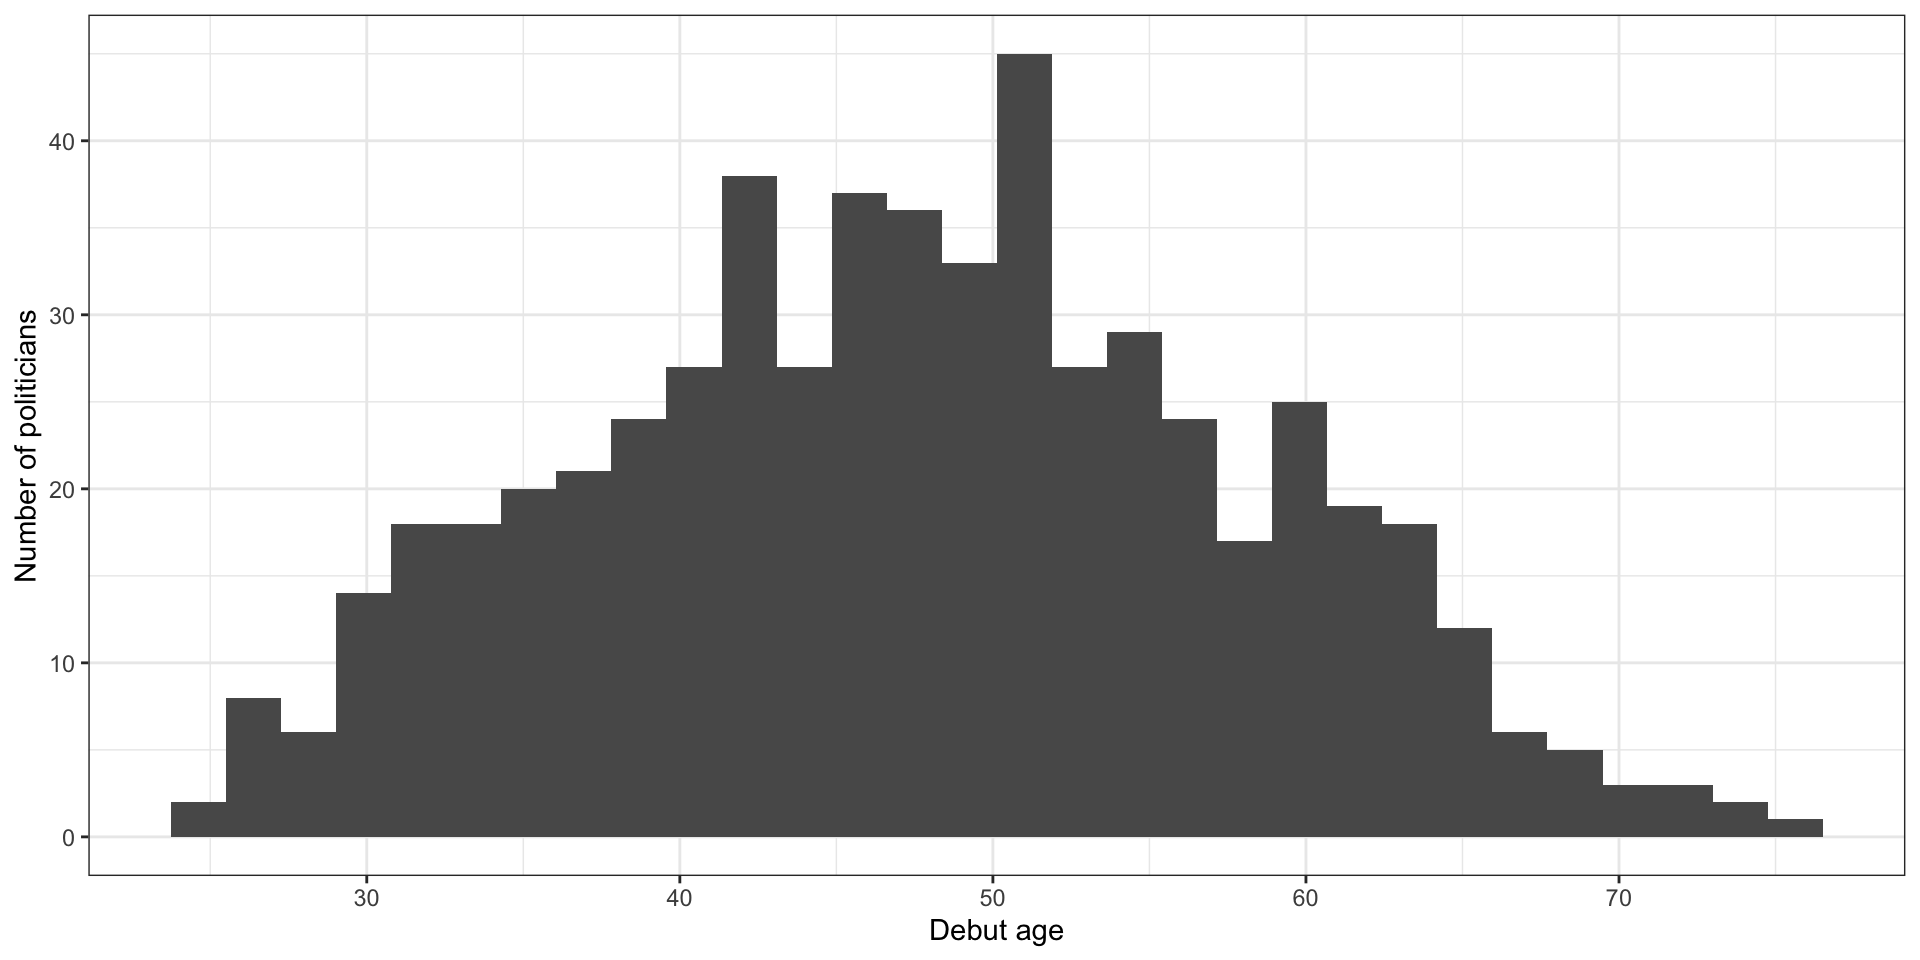
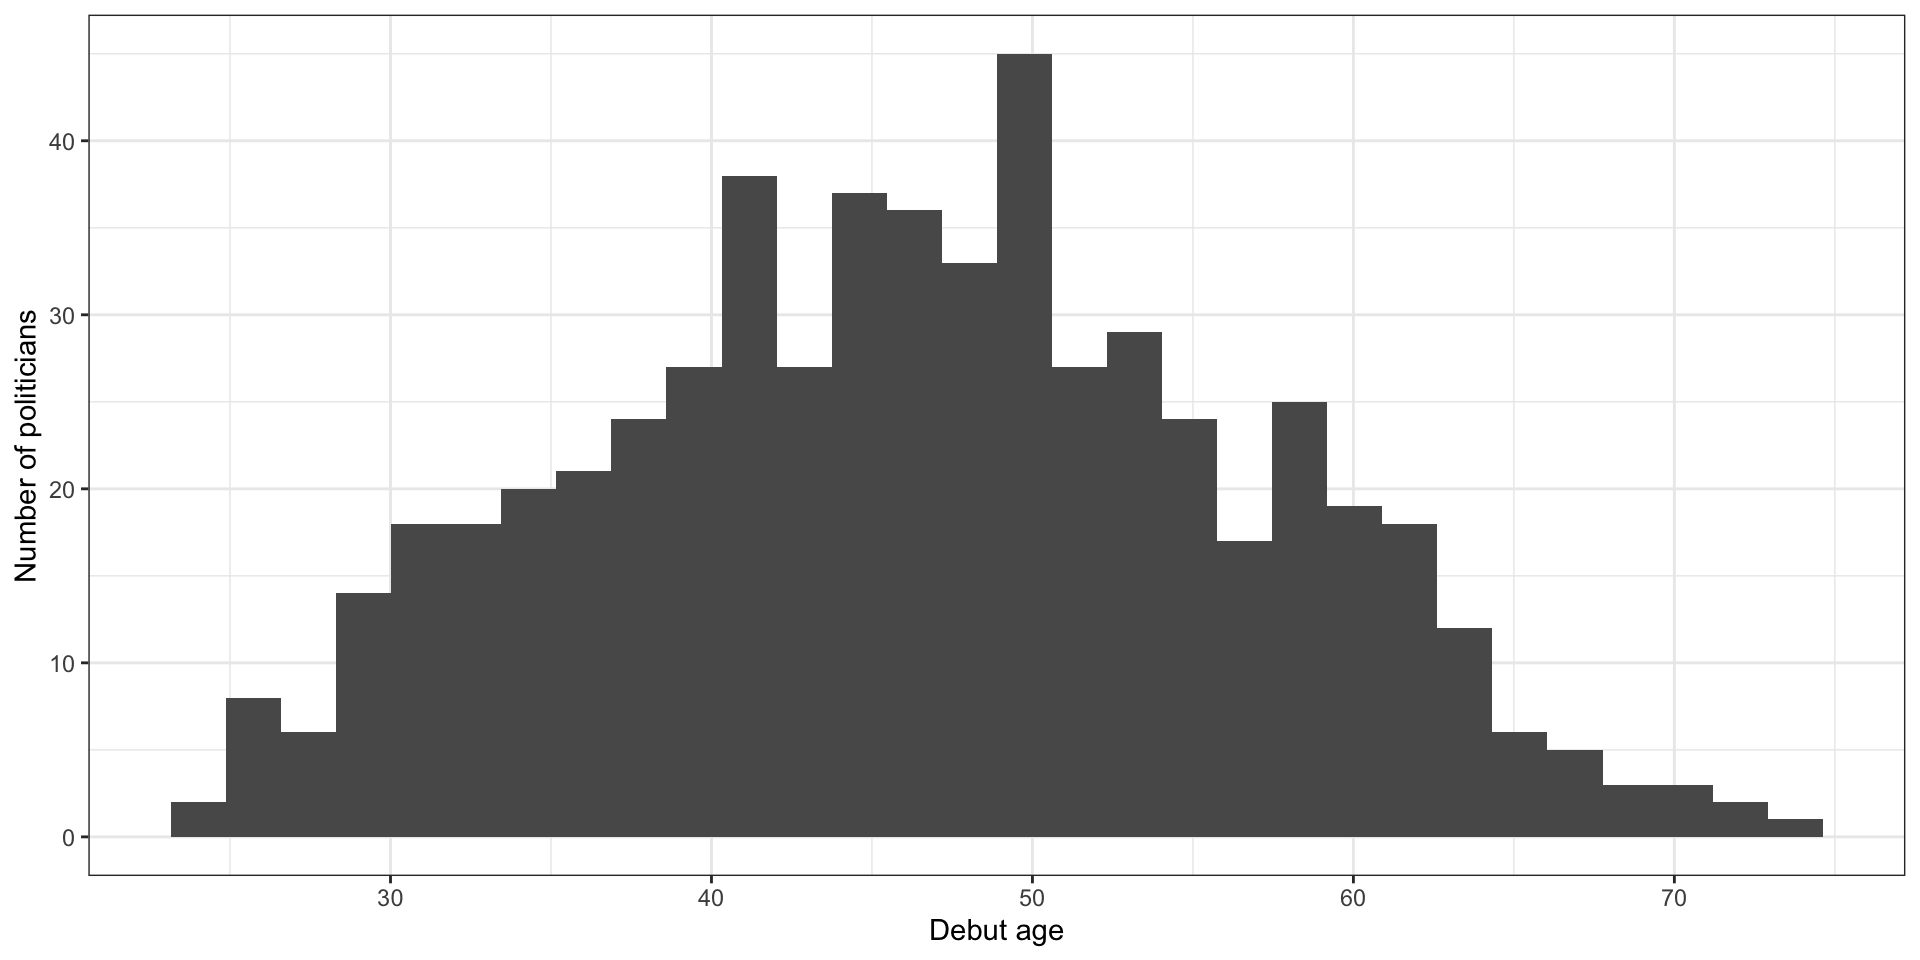
Added readings

diff --git a/docs/lectures/abm1.html b/docs/lectures/abm1.html
@@ -473,7 +473,7 @@ Dr Joshua J Bon
 <span id="cb1-7"><a></a><span class="co"># e.g. "~/Downloads/deputes2019.csv" or "C:/Users/[User Name]/Downloads/deputes2019.csv"</span></span>
 <span id="cb1-8"><a></a></span>
 <span id="cb1-9"><a></a><span class="fu">ggplot</span>(deputes) <span class="sc">+</span> </span>
-<span id="cb1-10"><a></a>  <span class="fu">geom_histogram</span>(<span class="fu">aes</span>(<span class="at">x =</span> (premier_elu <span class="sc">-</span> date_naissance)<span class="sc">/</span><span class="fl">356.25</span>)) <span class="sc">+</span></span>
+<span id="cb1-10"><a></a>  <span class="fu">geom_histogram</span>(<span class="fu">aes</span>(<span class="at">x =</span> (premier_elu <span class="sc">-</span> date_naissance)<span class="sc">/</span><span class="fl">365.25</span>)) <span class="sc">+</span></span>
 <span id="cb1-11"><a></a>  <span class="fu">scale_x_continuous</span>(<span class="st">"Debut age"</span>) <span class="sc">+</span></span>
 <span id="cb1-12"><a></a>  <span class="fu">scale_y_continuous</span>(<span class="st">"Number of politicians"</span>) <span class="sc">+</span></span>
 <span id="cb1-13"><a></a>  <span class="fu">theme_bw</span>()</span></code><button title="Copy to Clipboard" class="code-copy-button"><i class="bi"></i></button></pre></div>
@@ -584,13 +584,13 @@ Dr Joshua J Bon
 </div>
 </div>
 <ul>
-<li>Marginal likelihood
-<ul>
-<li><span class="math inline">Z = m(y) = \int_\Theta p(y \mid \theta) \Pi(\mathrm{d}\theta) = \mathbb{E}_{\theta \sim \Pi}\left[p(y \mid \theta)\right]</span></li>
-</ul></li>
 <li>Likelihood
 <ul>
 <li><span class="math inline">L(\cdot\mid y) = p(y \mid \cdot)</span> for fixed <span class="math inline">y</span>.</li>
+</ul></li>
+<li>Marginal likelihood
+<ul>
+<li><span class="math inline">m(y) = \int_\Theta p(y \mid \theta) \Pi(\mathrm{d}\theta) = \mathbb{E}_{\theta \sim \Pi}\left[L(\theta\mid y)\right]</span></li>
 </ul></li>
 </ul>
 </section>
@@ -599,7 +599,8 @@ Dr Joshua J Bon
 <ul>
 <li>Moments</li>
 <li>Median, mode</li>
-<li>Credible intervals (quantiles)</li>
+<li>Posterior quantiles</li>
+<li>Credible intervals</li>
 <li>Posterior predictive distribution</li>
 </ul>
 </section>
@@ -732,7 +733,7 @@ Dr Joshua J Bon
 <h2>Model checking I: Bayes Factors</h2>
 <p>Interpretation of Bayes factors</p>
 <p><span class="math display">
-\text{BF}_{1,0} = \frac{\Pr(M_1\mid y)}{\Pr(M_0\mid y)} = \frac{m_1(y)}{m_0(y)}
+\text{BF}_{1,0}  = \frac{m_1(y)}{m_0(y)} = \frac{\Pr(M_1\mid y)}{\Pr(M_0\mid y)}
 </span></p>
 </section>
 <section id="model-checking-i-bayes-factors-2" class="slide level2">
@@ -806,6 +807,60 @@ Dr Joshua J Bon
 </tr>
 </tbody>
 </table>
+</section>
+<section id="example-2-députés-questions" class="slide level2">
+<h2>Example 2: Députés Questions</h2>
+<div class="cell">
+<details class="code-fold">
+<summary>Code</summary>
+<div class="sourceCode cell-code" id="cb2"><pre class="sourceCode numberSource r number-lines code-with-copy"><code class="sourceCode r"><span id="cb2-1"><a></a><span class="fu">library</span>(readr)</span>
+<span id="cb2-2"><a></a><span class="fu">library</span>(ggplot2)</span>
+<span id="cb2-3"><a></a></span>
+<span id="cb2-4"><a></a>deputes <span class="ot">&lt;-</span> <span class="fu">read_csv</span>(<span class="at">file =</span> <span class="fu">josh_data_dir</span>(<span class="st">"deputes2019.csv"</span>))</span>
+<span id="cb2-5"><a></a><span class="co"># Download: https://github.com/bonStats/mash-abm/tree/main/data</span></span>
+<span id="cb2-6"><a></a><span class="co"># change location to match folder of 'deputes2019.csv' on your computer</span></span>
+<span id="cb2-7"><a></a><span class="co"># e.g. "~/Downloads/deputes2019.csv" or "C:/Users/[User Name]/Downloads/deputes2019.csv"</span></span>
+<span id="cb2-8"><a></a></span>
+<span id="cb2-9"><a></a><span class="fu">ggplot</span>(deputes) <span class="sc">+</span> </span>
+<span id="cb2-10"><a></a>  <span class="fu">geom_histogram</span>(<span class="fu">aes</span>(<span class="at">x =</span> questions_orales)) <span class="sc">+</span></span>
+<span id="cb2-11"><a></a>  <span class="fu">facet_grid</span>(<span class="at">rows =</span> <span class="st">"sexe"</span>) <span class="sc">+</span> </span>
+<span id="cb2-12"><a></a>  <span class="fu">theme_bw</span>()</span></code><button title="Copy to Clipboard" class="code-copy-button"><i class="bi"></i></button></pre></div>
+</details>
+
+</div>
+<img data-src="abm1_files/figure-revealjs/dep-questions-1.png" width="960" class="r-stretch"></section>
+<section id="example-2-députés-questions-1" class="slide level2">
+<h2>Example 2: Députés Questions</h2>
+<div class="callout callout-note callout-titled callout-style-default">
+<div class="callout-body">
+<div class="callout-title">
+<div class="callout-icon-container">
+<i class="callout-icon"></i>
+</div>
+<p><strong>Lay question</strong></p>
+</div>
+<div class="callout-content">
+<p>Do the number of questions politicians ask differ by gender?</p>
+</div>
+</div>
+</div>
+<div class="callout callout-tip callout-titled callout-style-default">
+<div class="callout-body">
+<div class="callout-title">
+<div class="callout-icon-container">
+<i class="callout-icon"></i>
+</div>
+<p><strong>Statistical questions</strong></p>
+</div>
+<div class="callout-content">
+<ol type="1">
+<li>Does the <em>average</em> number of questions differ by gender?</li>
+<li>Does the <em>variance</em> in the number of questions differ by gender?</li>
+<li>What <em>statistical model</em> best explains the distribution of question numbers?</li>
+</ol>
+</div>
+</div>
+</div>
 </section></section>
 <section>
 <section id="posterior-approximation" class="title-slide slide level1 center">
@@ -890,60 +945,6 @@ Dr Joshua J Bon
 <li>Model evidence</li>
 <li>Intractable posteriors <span class="math inline">\rightarrow</span> Monte Carlo approximation</li>
 </ol>
-</section>
-<section id="example-2-députés-questions" class="slide level2">
-<h2>Example 2: Députés Questions</h2>
-<div class="cell">
-<details class="code-fold">
-<summary>Code</summary>
-<div class="sourceCode cell-code" id="cb2"><pre class="sourceCode numberSource r number-lines code-with-copy"><code class="sourceCode r"><span id="cb2-1"><a></a><span class="fu">library</span>(readr)</span>
-<span id="cb2-2"><a></a><span class="fu">library</span>(ggplot2)</span>
-<span id="cb2-3"><a></a></span>
-<span id="cb2-4"><a></a>deputes <span class="ot">&lt;-</span> <span class="fu">read_csv</span>(<span class="at">file =</span> <span class="fu">josh_data_dir</span>(<span class="st">"deputes2019.csv"</span>))</span>
-<span id="cb2-5"><a></a><span class="co"># Download: https://github.com/bonStats/mash-abm/tree/main/data</span></span>
-<span id="cb2-6"><a></a><span class="co"># change location to match folder of 'deputes2019.csv' on your computer</span></span>
-<span id="cb2-7"><a></a><span class="co"># e.g. "~/Downloads/deputes2019.csv" or "C:/Users/[User Name]/Downloads/deputes2019.csv"</span></span>
-<span id="cb2-8"><a></a></span>
-<span id="cb2-9"><a></a><span class="fu">ggplot</span>(deputes) <span class="sc">+</span> </span>
-<span id="cb2-10"><a></a>  <span class="fu">geom_histogram</span>(<span class="fu">aes</span>(<span class="at">x =</span> questions_orales)) <span class="sc">+</span></span>
-<span id="cb2-11"><a></a>  <span class="fu">facet_grid</span>(<span class="at">rows =</span> <span class="st">"sexe"</span>) <span class="sc">+</span> </span>
-<span id="cb2-12"><a></a>  <span class="fu">theme_bw</span>()</span></code><button title="Copy to Clipboard" class="code-copy-button"><i class="bi"></i></button></pre></div>
-</details>
-
-</div>
-<img data-src="abm1_files/figure-revealjs/dep-questions-1.png" width="960" class="r-stretch"></section>
-<section id="example-2-députés-questions-1" class="slide level2">
-<h2>Example 2: Députés Questions</h2>
-<div class="callout callout-note callout-titled callout-style-default">
-<div class="callout-body">
-<div class="callout-title">
-<div class="callout-icon-container">
-<i class="callout-icon"></i>
-</div>
-<p><strong>Lay question</strong></p>
-</div>
-<div class="callout-content">
-<p>Do the number of questions politicians ask differ by gender?</p>
-</div>
-</div>
-</div>
-<div class="callout callout-tip callout-titled callout-style-default">
-<div class="callout-body">
-<div class="callout-title">
-<div class="callout-icon-container">
-<i class="callout-icon"></i>
-</div>
-<p><strong>Statistical questions</strong></p>
-</div>
-<div class="callout-content">
-<ol type="1">
-<li>Does the <em>average</em> number of questions differ by gender?</li>
-<li>Does the <em>variance</em> in the number of questions differ by gender?</li>
-<li>What <em>statistical model</em> best explains the distribution of question numbers?</li>
-</ol>
-</div>
-</div>
-</div>
 </section>
 <section id="references" class="slide level2 smaller scrollable">
 <h2>References</h2>

diff --git a/docs/index.html b/docs/index.html
@@ -134,7 +134,7 @@ div.csl-indent {
   <li><a href="#slides" id="toc-slides" class="nav-link active" data-scroll-target="#slides">Slides</a></li>
   <li><a href="#worksheets" id="toc-worksheets" class="nav-link" data-scroll-target="#worksheets">Worksheets</a></li>
   <li><a href="#datasets" id="toc-datasets" class="nav-link" data-scroll-target="#datasets">Datasets</a></li>
-  <li><a href="#resources" id="toc-resources" class="nav-link" data-scroll-target="#resources">Resources</a></li>
+  <li><a href="#additional-resources" id="toc-additional-resources" class="nav-link" data-scroll-target="#additional-resources">Additional Resources</a></li>
   <li><a href="#references" id="toc-references" class="nav-link" data-scroll-target="#references">References</a></li>
   <li><a href="#section" id="toc-section" class="nav-link" data-scroll-target="#section"></a></li>
   </ul>
@@ -169,13 +169,28 @@ div.csl-indent {
 
 
 <p>Course website for M2 <a href="https://sites.google.com/view/m2mash/home">MASH</a> course on Applied Bayesian Modelling.</p>
+<div class="callout callout-style-default callout-note callout-titled">
+<div class="callout-header d-flex align-content-center">
+<div class="callout-icon-container">
+<i class="callout-icon"></i>
+</div>
+<div class="callout-title-container flex-fill">
+Textbook
+</div>
+</div>
+<div class="callout-body-container callout-body">
+<ul>
+<li><em>Bayesian Essentials with R</em> <span class="citation" data-cites="marin2014bayesian">(<a href="#ref-marin2014bayesian" role="doc-biblioref">Marin and Robert 2014</a>)</span> <strong>[M&amp;R]</strong></li>
+</ul>
+</div>
+</div>
 <section id="slides" class="level2">
 <h2 class="anchored" data-anchor-id="slides">Slides</h2>
 <p>Lecture slides with main content. Further demonstrations in class.</p>
 <ul>
-<li><a href="lectures/abm1.html">Section 1: Bayes &amp; Monte Carlo</a></li>
-<li><a href="lectures/abm2.html">Section 2: MCMC &amp; Metropolis-Hastings</a></li>
-<li><a href="lectures/abm3.html">Section 3: Gibbs &amp; Variable Selection</a></li>
+<li><a href="lectures/abm1.html">Section 1: Bayes &amp; Monte Carlo</a> [Reading: M&amp;R Ch. 2]</li>
+<li><a href="lectures/abm2.html">Section 2: MCMC &amp; Metropolis-Hastings</a> [Reading: M&amp;R Ch. 4]</li>
+<li><a href="lectures/abm3.html">Section 3: Gibbs &amp; Variable Selection</a> [Reading: M&amp;R Ch. 3]</li>
 <li>Section 4</li>
 <li>Section 5</li>
 </ul>
@@ -273,12 +288,11 @@ div.csl-indent {
     downloadFile(event);
   "><i class="fa fa-save"></i> Download data</button> Death rates</p>
 </section>
-<section id="resources" class="level2">
-<h2 class="anchored" data-anchor-id="resources">Resources</h2>
+<section id="additional-resources" class="level2">
+<h2 class="anchored" data-anchor-id="additional-resources">Additional Resources</h2>
 <section id="textbooks" class="level4">
 <h4 class="anchored" data-anchor-id="textbooks">Textbooks</h4>
 <ul>
-<li><em>Bayesian Essentials with R</em> <span class="citation" data-cites="marin2014bayesian">(<a href="#ref-marin2014bayesian" role="doc-biblioref">Marin and Robert 2014</a>)</span></li>
 <li><em>Bayesian Data Analysis</em> <span class="citation" data-cites="gelman2013bayesian">(<a href="#ref-gelman2013bayesian" role="doc-biblioref">Gelman et al. 2013</a>)</span></li>
 </ul>
 </section>
